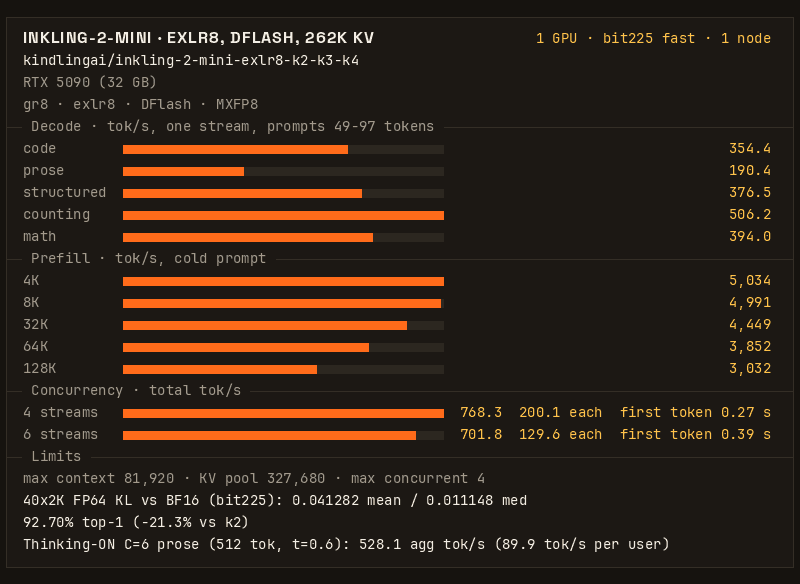
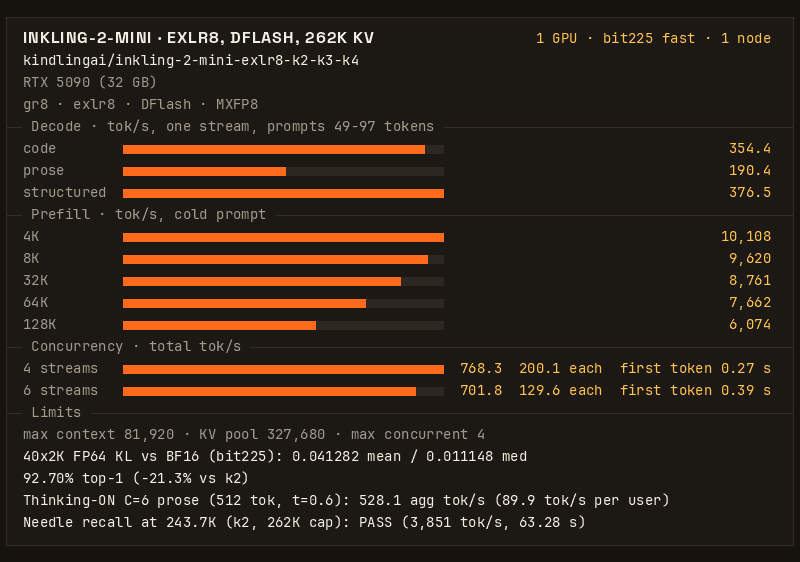
feat(inkling-2-mini): enable layer-wise FP8 MoE fast prefill on 1x RTX 5090 (#38)
Pin published multi-arch gr8 image for main@2c221e9 (kindlingai/gr8#640, digest sha256:b50f14c667fb7877e21c05669494807f612d57073adc3efde79024acef1dbfc1) and enable GR8_INK2_PF_MX8_MOE=3 + PREFILL=4096 defaults on 1x RTX 5090 (32 GB).

- Cold prefill doubles (+100.2% vs v1.3.1): 10,076 tok/s @ 4K (0.41 s TTFT), 9,580 @ 8K, 8,729 @ 32K, 7,637 @ 64K, 6,057 @ 128K (21.64 s) with 8/8 exact DFlash greedy parity and 4/4 passing needles (35.4K, 70.9K, 127.3K, 243.7K).
- 19x prefill-row workspace reduction brings default bit325 65536x4 (262K KV pool) down to 28.75 GiB (~3.10 GiB free at boot, ~2.24 GiB free after ~0.9 GiB lazy CUDA graph growth at 110K+).
- Trim k4 long preset cap 245,760 -> 229,376 (224K, 29.18 GiB) so every dedicated 32 GB preset keeps >=1.65 GiB free after lazy graph growth.
- Align kindling.json with standard decode + decode_extra keys and C=1/2/4 concurrency points; redraw docs/card.png and docs/card-bit225.png.

diff --git a/inkling-2-mini/rtx-5090/1x/exlr8-gr8/README.md b/inkling-2-mini/rtx-5090/1x/exlr8-gr8/README.md
@@ -6,21 +6,21 @@ If you are an agent booting this for someone, read [AGENTS.md](AGENTS.md) first,
 
 _**Join our discord to learn more about KindlingAI and `gr8`: https://discord.gg/8EAvYPV2rE**_
 
-Inkling-2-Mini on **one NVIDIA RTX 5090 (32 GB)** at `TP=1`, served by [gr8](https://github.com/kindlingai/gr8) (`v1.3.1`, multi-arch `linux/amd64` `sm_120a`) from [kindlingai/inkling-2-mini-exlr8-k2-k3-k4](https://huggingface.co/kindlingai/inkling-2-mini-exlr8-k2-k3-k4):
+Inkling-2-Mini on **one NVIDIA RTX 5090 (32 GB)** at `TP=1`, served by [gr8](https://github.com/kindlingai/gr8) (`main@2c221e9`, multi-arch `linux/amd64` `sm_120a`) from [kindlingai/inkling-2-mini-exlr8-k2-k3-k4](https://huggingface.co/kindlingai/inkling-2-mini-exlr8-k2-k3-k4):
 one single pack gives load-time width selection across:
-- **`bit325` (3.25-bit, default)** — in our 1,362-task evals, 3.25-bit performed nearly the same as 4-bit across coding and math except for graduate-level science (GPQA), while running faster and fitting a **`262,144`-token KV pool** (`65,536 × 4`) or **`303K` single-stream** on 32 GB VRAM with **8/8 exact DFlash greedy parity** (`1.90×–6.61×` speedup).
-- **`k4` (4-bit, higher quality)** — recommended for maximum quality and graduate-level science (GPQA): **`-27.4%` KL** vs Official NVFP4 and ties Official W4A4 on 1,362 tasks (`93.54%`, McNemar `p=0.6655`), fitting a **`196,608`-token KV pool** (`49,152 × 4`) or **`245K` single-stream**.
-- **`bit225` (2.25-bit, fast version)** — `13.37 GB` device image (`0` extra weight bytes), **`0.041282` mean KL** (`-21.3%` lower KL than `k2`), hitting up to **`354.4 tok/s`** code, **`768.3 tok/s`** `C=4` agg, and **`528.1 tok/s`** `C=6` Thinking-ON prose, fitting a **`327K–360K` KV pool** or **`385K` single-stream**.
+- **`bit325` (3.25-bit, default)** — in our 1,362-task evals, 3.25-bit performed nearly the same as 4-bit across coding and math except for graduate-level science (GPQA), while running faster and fitting a **`262,144`-token KV pool** (`65,536 × 4`) or **`303K` single-stream** on 32 GB VRAM with **10,076 tok/s** 4K cold prefill and **8/8 exact DFlash greedy parity** (`1.90×–6.58×` speedup).
+- **`k4` (4-bit, higher quality)** — recommended for maximum quality and graduate-level science (GPQA): **`-27.4%` KL** vs Official NVFP4 and ties Official W4A4 on 1,362 tasks (`93.54%`, McNemar `p=0.6655`), fitting a **`196,608`-token KV pool** (`49,152 × 4`) or **`224K` single-stream**.
+- **`bit225` (2.25-bit, fast version)** — `13.37 GB` device image (`0` extra weight bytes), **`0.041282` mean KL** (`-21.3%` lower KL than `k2`), hitting up to **`354.4 tok/s`** code, **`768.3 tok/s`** `C=4` agg, **`528.1 tok/s`** `C=6` Thinking-ON prose, and **`10,108 tok/s`** 4K cold prefill, fitting a **`327K–360K` KV pool** or **`385K` single-stream**.
 
 A compact **279 MB DFlash speculative drafter** is bundled inside the weight pack and auto-discovered with zero extra flags. This recipe runs the published `linux/amd64` `gr8` image with `compose.yaml`, `entrypoint.sh`, and `.env` — nothing is compiled on the host.
 
 ## Results
 
-**`bit325` (3.25-bit, default):** **328.1 tok/s** code · **424.5 tok/s** math · **341.6 tok/s** JSON · **201.1 tok/s** prose · **590.9 tok/s** counting · **764.6 tok/s** `C=4` agg (`211.9`/user) · **418.3 tok/s** `C=6` thinking-ON · **8/8 exact DFlash greedy parity** · **4.27 s** boot from local NVMe
+**`bit325` (3.25-bit, default):** **328.1 tok/s** code · **424.5 tok/s** math · **341.6 tok/s** JSON · **201.1 tok/s** prose · **592.5 tok/s** counting · **777.0 tok/s** `C=4` agg (`213.8`/user) · **10,076 tok/s** 4K prefill (`0.41 s` TTFT) · **8/8 exact DFlash greedy parity** · **4.01 s** boot from local NVMe
 **`k4` (4-bit, higher quality / GPQA):** **274.4 tok/s** code · **438.5 tok/s** math · **337.1 tok/s** JSON · **183.6 tok/s** prose · **593.8 tok/s** counting · **649.1 tok/s** `C=4` agg · **`0.010460` mean KL** (`-27.4%` vs Official NVFP4) · **93.54%** on 1,362 tasks · **4.76 s** boot
-**`bit225` (2.25-bit, fast version):** **354.4 tok/s** code · **394.0 tok/s** math (`436.3` std) · **376.5 tok/s** JSON (`384.1` std) · **506.2 tok/s** counting (`604.8` std) · **768.3 tok/s** `C=4` agg · **528.1 tok/s** `C=6` thinking-ON · **`0.041282` mean KL** (`-21.3%` vs `k2`) · **3.76 s** boot
+**`bit225` (2.25-bit, fast version):** **354.4 tok/s** code · **394.0 tok/s** math (`436.3` std) · **376.5 tok/s** JSON (`384.1` std) · **506.2 tok/s** counting (`604.8` std) · **768.3 tok/s** `C=4` agg · **528.1 tok/s** `C=6` thinking-ON · **10,108 tok/s** 4K prefill (`10,454` 2-slot) · **`0.041282` mean KL** (`-21.3%` vs `k2`) · **3.56–3.76 s** boot
 
-One NVIDIA GeForce RTX 5090 (32 GB, `sm_120a`) with local NVMe storage, `TP=1`, measured 2026-11-25 on `gr8` commit `6b874803` ([PR #615](https://github.com/kindlingai/gr8/pull/615)) with bundled DFlash (`MTP=7`, auto-discovered, zero extra flags), `GR8_INK2_PF_MX8_MOE=0`, `GR8_INK2_MX8_DENSE=2`, `GR8_INK2_MX8_LM_HEAD=0` (and `MX8_DENSE=1`, `MX8_LM_HEAD=1`, `GR8_S2_ADAPT=1` for `bit225-fast` and `k2-fast`). Every speed is in tokens per second (tok/s). Re-measurement on the published `gr8 v1.3.1` `linux/amd64` container image is pending RTX 5090 hardware.
+One NVIDIA GeForce RTX 5090 (32 GB, `sm_120a`) with local NVMe storage, `TP=1`, measured 2026-11-26 on `gr8` [PR #640](https://github.com/kindlingai/gr8/pull/640) (`main` commit `2c221e98`; single-stream 8-domain decode baselines from 2026-11-25 commit `6b874803`, re-verified 8/8 exact greedy parity + `C=1 328.8` / `C=2 544.6` / `C=4 777.0 tok/s`) with bundled DFlash (`MTP=7`, auto-discovered, zero extra flags), `GR8_INK2_PF_MX8_MOE=3`, `PREFILL=4096`, `GR8_INK2_MX8_DENSE=2`, `GR8_INK2_MX8_LM_HEAD=0` (and `MX8_DENSE=1`, `MX8_LM_HEAD=1`, `GR8_S2_ADAPT=1` for `bit225-fast` and `k2-fast`). Every speed is in tokens per second (tok/s).
 
 ### One request, 8 domains & concurrency (`MTP=7`, 49–97 prompt tokens, 256 max tokens)
 
@@ -33,22 +33,26 @@ One NVIDIA GeForce RTX 5090 (32 GB, `sm_120a`) with local NVMe storage, `TP=1`, 
 | Prose (tok/s) | 201.1 | 183.6 | 187.3 | 190.4 | **218.4** |
 | Narrative (tok/s) | 171.8 | 166.2 | 161.4 | 185.7 | **188.2** |
 | Summary (tok/s) | 224.0 | 200.9 | 202.7 | 218.5 | **231.0** |
-| Counting (tok/s) | 590.9 | 593.8 | **604.8** | 506.2 | 510.8 |
-| `C=2` Agg Decode (tok/s) | **520.1** | 441.2 | 408.6 | 519.1 | 410.2 |
-| `C=4` Agg Decode (tok/s) | 764.6 (`211.9`/u) | 649.1 (`198.9`/u) | 642.2 (`220.1`/u) | **768.3** (`200.1`/u) | 608.4 (`170.7`/u) |
+| Counting (tok/s) | 592.5 | 593.8 | **604.8** | 506.2 | 510.8 |
+| `C=2` Agg Decode (tok/s) | **544.6** (`296.7`/u) | 441.2 | 408.6 | 519.1 | 410.2 |
+| `C=4` Agg Decode (tok/s) | **777.0** (`213.8`/u) | 649.1 (`198.9`/u) | 642.2 (`220.1`/u) | 768.3 (`200.1`/u) | 608.4 (`170.7`/u) |
 | `C=6` Agg Decode (tok/s) | 684.4 (`148.8`/u) | 575.4 (`135.3`/u) | 638.8 (`152.8`/u) | **701.8** (`129.6`/u) | 670.9 (`126.5`/u) |
 | Thinking-ON `C=1 / 2 / 4 / 6` (512 tok, `t=0.6`) | `143.3 / 236.5 / 354.0 / 418.3` | — | `159.4 / 256.9 / 398.7 / 490.9` | **`161.1 / 263.9 / 420.5 / 528.1`** | `171.8 / 258.2 / 436.6 / 516.5` |
-| NVMe Boot Time | **4.27 s** | 4.76 s | 4.02 s | **3.76 s** | 3.76 s |
+| NVMe Boot Time | **4.01 s** | 4.76 s | 4.02 s | **3.56–3.76 s** | **3.56 s** |
 
 ![Inkling-2-Mini bit225 fast preset on one RTX 5090: decode, prefill and concurrency](docs/card-bit225.png)
 
-### Cold prefill sweep (1× RTX 5090, `GR8_INK2_PF_MX8_MOE=0`, `GR8_INK2_MX8_DENSE=2`)
+### Cold prefill sweep (1× RTX 5090, `GR8_INK2_MX8_DENSE=2`, `bit325`)
 
-| Prefill chunk | 4K | 8K | 32K | 64K | 128K |
+| Mode / prefill chunk | 4K | 8K | 32K | 64K | 128K |
 |---|---:|---:|---:|---:|---:|
-| **`PREFILL=512` (default)** | **5,033.5** (`0.81 s`) | **4,990.9** (`1.64 s`) | **4,448.8** (`7.37 s`) | **3,851.5** (`17.02 s`) | **3,031.7** (`43.23 s`) |
-| `PREFILL=256` (`long` mode, `bit325`) | 3,516.3 (`1.16 s`) | 3,426.8 (`2.39 s`) | 2,902.1 (`11.29 s`) | 2,407.5 (`27.22 s`) | 1,798.1 (`72.89 s`) |
-| `PREFILL=256` (`long` mode, `k4`) | 3,480.3 (`1.18 s`) | 3,394.3 (`2.41 s`) | 2,878.9 (`11.38 s`) | 2,392.7 (`27.39 s`) | — |
+| **`PF_MX8_MOE=3`, `PREFILL=4096` (default, 0.98 GiB)** | **10,076.1** (`0.41 s`) | **9,579.9** (`0.86 s`) | **8,728.5** (`3.75 s`) | **7,636.6** (`8.58 s`) | **6,056.6** (`21.64 s`) |
+| `PF_MX8_MOE=4`, `PREFILL=4096` (2-slot, 1.96 GiB) | **10,395.5** (`0.39 s`) | **9,851.5** (`0.83 s`) | **9,010.7** (`3.64 s`) | **7,882.8** (`8.31 s`) | 6,257.5* (`20.95 s`) |
+| `PF_MX8_MOE=3`, `PREFILL=2048` | 7,239.8 (`0.57 s`) | 6,964.6 (`1.18 s`) | 6,536.8 (`5.01 s`) | 5,927.3 (`11.06 s`) | 4,951.1 (`26.47 s`) |
+| `PF_MX8_MOE=0`, `PREFILL=512` *(prior v1.3.1 baseline)* | 5,033.5 (`0.81 s`) | 4,990.9 (`1.64 s`) | 4,448.8 (`7.37 s`) | 3,851.5 (`17.02 s`) | 3,031.7 (`43.23 s`) |
+| `PF_MX8_MOE=0`, `PREFILL=256` *(prior `long` baseline)* | 3,516.3 (`1.16 s`) | 3,426.8 (`2.39 s`) | 2,902.1 (`11.29 s`) | 2,407.5 (`27.22 s`) | 1,798.1 (`72.89 s`) |
+
+*\*`PF_MX8_MOE=4` 128K measured on `k2` (`10,453.6` @ 4K, `6,257.5` @ 128K).*
 
 ### Choosing a preset (`VARIANT`): KL divergence & 1,362-task evaluation
 
@@ -64,32 +68,34 @@ Matched 40×2K (`81,920`-token) full-vocabulary `float64` KL against BF16 (`PPL 
 
 ### Maximized 32 GB VRAM context & concurrency presets
 
-`entrypoint.sh` automatically selects each variant's maximized dedicated 32 GB RTX 5090 (`32,607 MiB`) geometry, leaving ~2 GiB free VRAM headroom (computed from an exact linear VRAM model verified within `+/-8 MiB` across 12 live `nvidia-smi` measurements):
+`entrypoint.sh` automatically selects each variant's maximized dedicated 32 GB RTX 5090 (`32,607 MiB`) geometry with `GR8_INK2_PF_MX8_MOE=3` and `PREFILL=4096`, leaving `~2.5–3.3 GiB` free at boot (`>=1.65 GiB` free even after `~0.9 GiB` lazy CUDA graph capture growth at `110K+` context, computed from an exact linear VRAM model calibrated to live `nvidia-smi` measurements):
 
 | Preset (`.env`) | Active chats | Max tokens per chat | Total KV pool | `PREFILL` | `g6m4_ink2` VRAM | Dedicated 32 GB free |
 |---|---:|---:|---:|---:|---:|---:|
-| **Default (`VARIANT=bit325`)** | **4** | **65,536** | **262,144** | 512 | `29.71 GiB` | `~2.13 GiB` |
-| `VARIANT=k4` (or `PROFILE=k4`) | 4 | **49,152** | **196,608** | 512 | `29.74 GiB` | `~2.10 GiB` |
-| `PROFILE=bit225-fast` | 4 | **81,920** | **327,680** | 512 | `29.40 GiB` | `~2.45 GiB` |
-| `VARIANT=bit225` | 4 | **90,112** | **360,448** | 512 | `30.00 GiB` | `~1.84 GiB` |
-| `PROFILE=long` (`VARIANT=bit325`) | 1 | **303,104** | **303,104** | 256 | `29.87 GiB` | `~1.97 GiB` |
-| `VARIANT=k4`, `PROFILE=long` | 1 | **245,760** | **245,760** | 256 | `29.92 GiB` | `~1.93 GiB` |
-| `VARIANT=bit225`, `PROFILE=long` | 1 | **385,024** | **385,024** | 256 | `29.99 GiB` | `~1.85 GiB` |
-| `VARIANT=k2`, `PROFILE=long` | 1 | **401,408** | **401,408** | 256 | `29.87 GiB` | `~1.97 GiB` |
+| **Default (`VARIANT=bit325`)** | **4** | **65,536** | **262,144** | 4096 | `28.75 GiB` | `~3.10 GiB` |
+| `VARIANT=k4` (or `PROFILE=k4`) | 4 | **49,152** | **196,608** | 4096 | `28.83 GiB` | `~3.01 GiB` |
+| `PROFILE=bit225-fast` | 4 | **81,920** | **327,680** | 4096 | `28.58 GiB` | `~3.26 GiB` |
+| `VARIANT=bit225` | 4 | **90,112** | **360,448** | 4096 | `28.97 GiB` | `~2.87 GiB` |
+| `PROFILE=long` (`VARIANT=bit325`) | 1 | **303,104** | **303,104** | 4096 | `29.34 GiB` | `~2.50 GiB` |
+| `VARIANT=k4`, `PROFILE=long` | 1 | **229,376** | **229,376** | 4096 | `29.18 GiB` | `~2.66 GiB` |
+| `VARIANT=bit225`, `PROFILE=long` | 1 | **385,024** | **385,024** | 4096 | `29.05 GiB` | `~2.79 GiB` |
+| `VARIANT=k2`, `PROFILE=long` | 1 | **401,408** | **401,408** | 4096 | `28.83 GiB` | `~3.02 GiB` |
 
-*Shared-GPU host note:* If other services occupy VRAM on the card (for example ~7 GiB), override `CAP` and `PREFILL` in `.env` (e.g. `CAP=16384`, `SESSIONS=4`, `PREFILL=256`).
+*Shared-GPU host note:* If other services occupy VRAM on the card (for example ~7 GiB), override `CAP` in `.env` (e.g. `CAP=16384`, `SESSIONS=4`, `PREFILL=4096` or `CAP=135168`, `SESSIONS=1`, `PREFILL=4096`).
 
 ### Quality checks
 
-Measured live on 2026-11-25 on 1× NVIDIA RTX 5090 (32 GB, `gr8` commit `6b874803`):
+Measured live on 2026-11-26 on 1× NVIDIA RTX 5090 (32 GB, `gr8` PR #640 / `2c221e98`, `GR8_INK2_PF_MX8_MOE=3`, `PREFILL=4096`):
 
 | Check | Result |
 |---|---|
-| DFlash `K=7` vs `MTP=0` greedy parity (`bit325`) | **8 of 8 exact token-for-token** (`1.90×–6.61×` speedup) |
-| Needle recall at `35.4K` (`bit325`) | **PASS** (`2,906 tok/s`, `12.17 s`) |
-| Needle recall at `70.9K` (`bit325`) | **PASS** (`2,382 tok/s`, `29.78 s`) |
-| Cold prefill at `131,072` tokens | **PASS** (`3,031.7 tok/s` at `PREFILL=512`, `1,798.1 tok/s` at `PREFILL=256`) |
-| Boot to serving from local NVMe | `4.27 s` (`bit325`) / `4.76 s` (`k4`) / `3.76 s` (`bit225-fast`) |
+| DFlash `K=7` vs `MTP=0` greedy parity (`bit325`) | **8 of 8 exact token-for-token** (`1.90×–6.58×` speedup) |
+| Needle recall at `35.4K` (`bit325`) | **PASS** (`8,328 tok/s`, `4.25 s`) |
+| Needle recall at `70.9K` (`bit325`) | **PASS** (`7,287 tok/s`, `9.74 s`) |
+| Needle recall at `127.3K` (`bit325`) | **PASS** (`6,036 tok/s`, `21.09 s`) |
+| Needle recall at `243.7K` (`k2`, `262K` cap, `PF=2048`) | **PASS** (`3,851 tok/s`, `63.28 s`) |
+| Cold prefill at `131,072` tokens (`bit325`) | **PASS** (`6,056.6 tok/s`, `21.64 s` at `PREFILL=4096`) |
+| Boot to serving from local NVMe | `4.01 s` (`bit325`) / `3.56 s` (`k2`) |
 
 [kindling.json](kindling.json) holds the `1gpu-bit325`, `1gpu-k4`, and `1gpu-bit225` results in machine-readable form. Both cards above are drawn from it.
 
@@ -97,7 +103,7 @@ Measured live on 2026-11-25 on 1× NVIDIA RTX 5090 (32 GB, `gr8` commit `6b87480
 
 ```bash
 npx @kindlingai/recipe inkling-2-mini-exlr8-1x-rtx5090 && cd inkling-2-mini-exlr8-1x-rtx5090
-# the CLI already copied .env.example to .env (defaults to bit325, 65536 x 4 = 262K KV pool)
+# the CLI already copied .env.example to .env (defaults to bit325, 65536 x 4 = 262K KV pool, PREFILL=4096)
 
 # Download the weight pack (~31 GB, includes bundled 279 MB DFlash drafter)
 hf download kindlingai/inkling-2-mini-exlr8-k2-k3-k4 \
@@ -146,11 +152,11 @@ docker compose down
 | `MODEL_DIR` | `./models/inkling-2-mini-exlr8-k2-k3-k4` | Host directory holding the weight pack, mounted read-only inside the container |
 | `VARIANT` | `bit325` | Width manifest preset: `bit325` (default), `k4`, `bit225`, `bit250`, or `k2` |
 | `PROFILE` | unset | Optional shortcut (`bit325`, `k4`, `bit225`, `bit225-fast`, `bit250`, `k2`, `k2-fast`, `long`) |
-| `CAP` / `SESSIONS` / `PREFILL` | auto (`65536`) / `4` / `512` | Per-session context cap, concurrent session count, and prefill chunk budget |
+| `CAP` / `SESSIONS` / `PREFILL` | auto (`65536`) / `4` / `4096` | Per-session context cap, concurrent session count, and prefill chunk budget |
 | `MTP` | `7` | Bundled DFlash speculative drafting depth (auto-discovered in `MODEL_DIR`) |
 | `HOST` / `PORT` | `127.0.0.1` / `8100` | OpenAI API bind address and port on the host network |
 | `REASONING_EFFORT` | `none` | Default reasoning effort exposed by the frontend (`none`, `low`, `medium`, `high`) |
-| `GR8_INK2_*` | `PF_MX8_MOE=0`, `MX8_DENSE=2`, `MX8_LM_HEAD=0` | Unified 32 GB RTX 5090 precision and VRAM knobs |
+| `GR8_INK2_*` | `PF_MX8_MOE=3`, `MX8_DENSE=2`, `MX8_LM_HEAD=0` | Unified 32 GB RTX 5090 precision and VRAM knobs (`PF_MX8_MOE=4` enables 2-slot 1.96 GiB double-buffering) |
 | `GR8_IMAGE` | unset | Optional override for the pinned `gr8` container image |
 
 ## Other sizes
@@ -167,9 +173,9 @@ This recipe has no engine code. It runs one published multi-arch `gr8` image (`l
 
 | | |
 |---|---|
-| engine | [kindlingai/gr8](https://github.com/kindlingai/gr8) `v1.3.1` ([`9f4f9c4f700d8a53c753e98f5388a92cc8cfd869`](https://github.com/kindlingai/gr8/commit/9f4f9c4f700d8a53c753e98f5388a92cc8cfd869)) |
-| image | `ghcr.io/kindlingai/gr8:v1.3.1` |
-| digest | `sha256:e4e709eab32df3868b74b14c08b75fc89d891fde0f9650d0c4a42fcda54b9863` |
+| engine | [kindlingai/gr8](https://github.com/kindlingai/gr8) `main` ([`2c221e984112e9f1081b4f5a9555600239072f19`](https://github.com/kindlingai/gr8/commit/2c221e984112e9f1081b4f5a9555600239072f19)) |
+| image | `ghcr.io/kindlingai/gr8:sha-2c221e9` |
+| digest | `sha256:b50f14c667fb7877e21c05669494807f612d57073adc3efde79024acef1dbfc1` |
 | weights | [kindlingai/inkling-2-mini-exlr8-k2-k3-k4](https://huggingface.co/kindlingai/inkling-2-mini-exlr8-k2-k3-k4/commit/3037e66b3f01003ddf2c62b7e1d9469c59104609) (`3037e66b`) |
 
 `python3 tools/check_pin.py --strict inkling-2-mini/rtx-5090/1x/exlr8-gr8`, run from the monorepo root, verifies that [compose.yaml](compose.yaml) and [kindling.json](kindling.json) agree on the immutable image digest.

diff --git a/inkling-2-mini/rtx-5090/1x/exlr8-gr8/AGENTS.md b/inkling-2-mini/rtx-5090/1x/exlr8-gr8/AGENTS.md
@@ -10,8 +10,8 @@ inside the folder.
 ## 1. Check the box
 
 - 1× NVIDIA Blackwell GPU with 32 GB VRAM (`sm_120a`, e.g. RTX 5090): check `nvidia-smi` and `docker ps`.
-  - On a dedicated 32 GB GPU (~30 GiB available), the defaults fit with ~2 GiB free (`bit325`: `65536 × 4` = 262K KV pool).
-  - If other GPU services occupy VRAM (e.g. ~7 GiB), lower `CAP` in `.env` (for example `CAP=16384`, `SESSIONS=4`, `PREFILL=256`).
+  - On a dedicated 32 GB GPU (~30 GiB available), the defaults fit with ~3.1 GiB free at boot (`>=2.2 GiB` free after lazy CUDA graph growth at 110K+): `bit325`, `65536 × 4` = 262K KV pool, `PREFILL=4096`, `GR8_INK2_PF_MX8_MOE=3`.
+  - If other GPU services occupy VRAM (e.g. ~7 GiB), lower `CAP` in `.env` (for example `CAP=16384`, `SESSIONS=4`, `PREFILL=4096` or `CAP=135168`, `SESSIONS=1`, `PREFILL=4096`).
 - Docker has the NVIDIA runtime: `docker info | grep -i nvidia`.
 - Local NVMe disk: at least 35 GB free for `kindlingai/inkling-2-mini-exlr8-k2-k3-k4` (`~31 GB` on disk).
 - Hugging Face answers: `curl -sI https://huggingface.co`.
@@ -24,10 +24,10 @@ hf download kindlingai/inkling-2-mini-exlr8-k2-k3-k4 \
 cp .env.example .env
 ```
 
-Default is `VARIANT=bit325` (`65536 × 4` = 262K KV pool, `MTP=7` DFlash auto-discovered). Ask the person before
+Default is `VARIANT=bit325` (`65536 × 4` = 262K KV pool, `PREFILL=4096`, `GR8_INK2_PF_MX8_MOE=3`, `MTP=7` DFlash auto-discovered). Ask the person before
 switching to `VARIANT=k4` (higher quality / graduate-level science, `49152 × 4` = 196K KV pool),
 `PROFILE=bit225-fast` (fast 2.25-bit tier, `81920 × 4` = 327K KV pool), or `PROFILE=long` (single-stream long context
-up to `303K` on `bit325` / `385K` on `bit225`).
+up to `303K` on `bit325` / `224K` on `k4` / `385K` on `bit225`).
 
 ## 3. Boot
 
